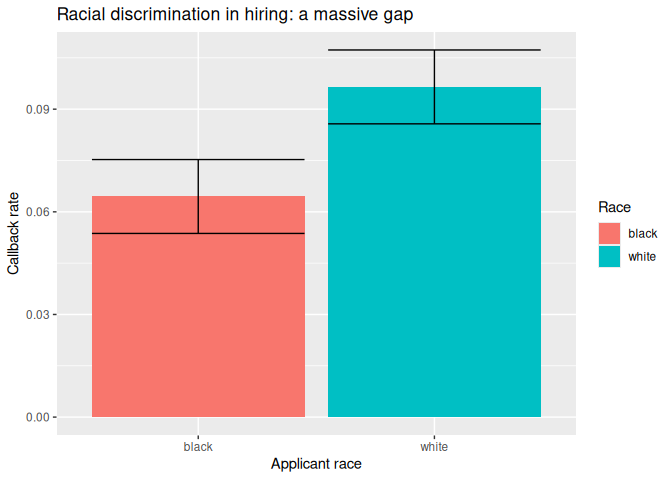
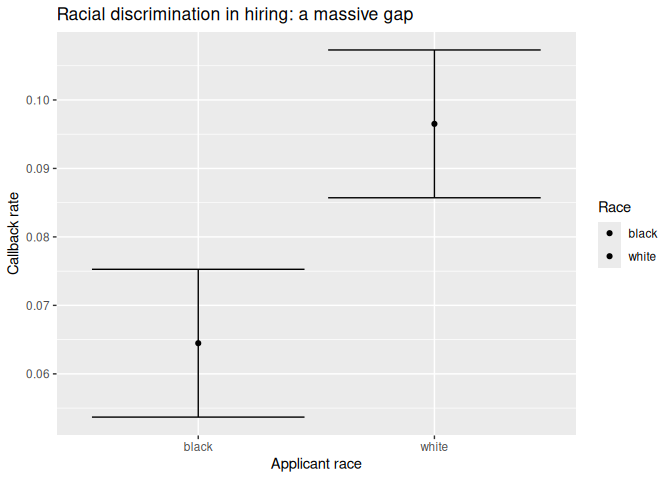
in-class edits to lecture 16

diff --git a/docs/lectures/lecture-16.md b/docs/lectures/lecture-16.md
@@ -59,25 +59,33 @@ economy data for 234 cars across 7 vehicle classes.
 **A first attempt.** Here is a bar chart of mean highway fuel efficiency
 by vehicle class.
 
-``` r
-mpg |>
-  group_by(class) |>
-  summarize(mean_hwy = mean(hwy)) |>
-  ggplot(aes(x = class, y = mean_hwy, fill = class)) +
-  geom_col() +
-  labs(
-    title = "Highway fuel efficiency by vehicle class",
-    x = "Vehicle class",
-    y = "Mean highway mpg",
-    fill = "Class"
-  )
-```
-
 ![](lecture-16_files/figure-commonmark/mpg-bad-1.png)
 
 **What is wrong with this plot?**
 
 **A better version.**
+
+``` r
+mpg |>
+  group_by(class) |>
+  summarize(mean_hwy = mean(hwy)) |>
+  arrange(mean_hwy) |>
+  mutate(
+    class = as_factor(class),
+    class = fct_inorder(class)
+  ) |>
+  ggplot(aes(x = class, y = mean_hwy)) +
+  geom_col() +
+  scale_y_continuous(limits = c(0, 30)) +
+  coord_flip() +
+  labs(
+    title = "Highway fuel efficiency by vehicle class",
+    x = "Vehicle class",
+    y = "Mean highway mpg"
+  )
+```
+
+![](lecture-16_files/figure-commonmark/better-plot-1-1.png)
 
 ## Example 2: Graphical integrity
 
@@ -97,16 +105,24 @@ mod <- lm(call ~ race, data = df_resume)
 # Predict callback rates for each group at 90% and 95% confidence levels
 preds <- tibble(race = c("black", "white"))
 ci <- predict(mod, preds, interval = "confidence", level = 0.95)
+ci_90 <- predict(mod, preds, interval = "confidence", level = 0.90)
 
 # Combine into one tibble
-preds <- bind_cols(preds, as_tibble(ci))
+preds <- bind_cols(
+  preds,
+  as_tibble(ci),
+  as_tibble(ci_90) |> select(
+    lwr_90 = lwr,
+    upr_90 = upr
+  )
+)
 ```
 
 **A misleading plot.**
 
 ``` r
 ggplot(preds, aes(x = race, y = fit, fill = race, ymin = lwr, ymax = upr)) +
-  geom_col() +
+  geom_point() +
   geom_errorbar() +
   labs(
     title = "Racial discrimination in hiring: a massive gap",
@@ -121,6 +137,22 @@ ggplot(preds, aes(x = race, y = fit, fill = race, ymin = lwr, ymax = upr)) +
 **What is wrong with this plot?**
 
 **A better version.**
+
+``` r
+ggplot(preds, aes(x = race, y = fit, ymin = lwr, ymax = upr)) +
+  geom_point() +
+  geom_linerange() +
+  geom_linerange(aes(ymin = lwr_90, ymax = upr_90), linewidth = 1) +
+  scale_y_continuous(limits = c(0, 0.12), labels = scales::percent) +
+  coord_flip() +
+  labs(
+    title = "Racial discrimination in hiring: a massive gap",
+    x = "Applicant race",
+    y = "Callback rate"
+  )
+```
+
+![](lecture-16_files/figure-commonmark/resume-good-1.png)
 
 ------------------------------------------------------------------------
 